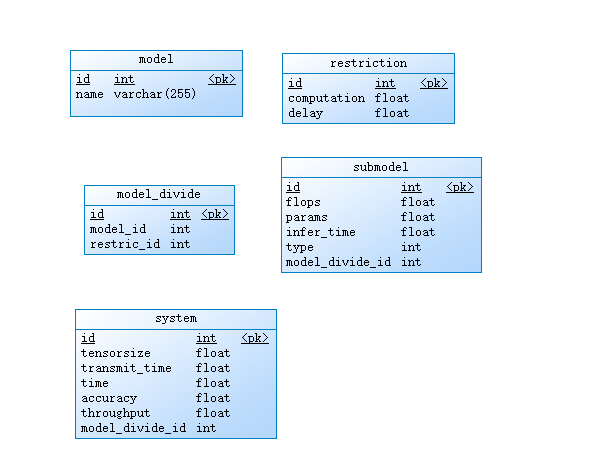
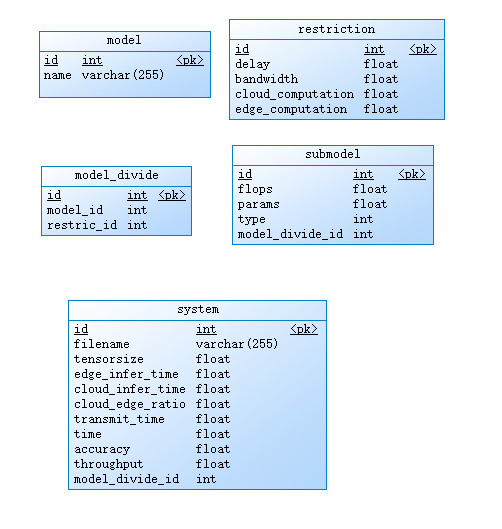
Merge branch 'main' of E:\Work\ABaidu\collaborative-inference-paddle with conflicts.

diff --git a/backend/model_transmit/server.py b/backend/model_transmit/server.py
@@ -9,6 +9,7 @@ from load_model import edge_load_model
 import numpy as np
 import channal_noise as cn
 import core
+from db_save import add_system_edge
 model_dict = []
 param_dict = []
 image_dict = []
@@ -44,11 +45,11 @@ def send_loop(type):
                   format(core.EDGE_HOST,core.EDGE_SENDTO_CLOUD,addr[0],addr[1]))
             while True:
                 for filename in glob.glob(r'../data/test/transtest/*'):
+                    # for filename in glob.glob(dirname + '/*'):
                     if filename not in image_dict:
                         image_dict.append(filename)
-                        send_tensor(conn=conn,filename=filename,model_prefix="../data/receive/model/client_infer_resnet18_cifar10")
-               
-
+                        file_name,edge_infer_time,tensorsize = send_tensor(conn,filename)
+                        add_system_edge(file_name,edge_infer_time,tensorsize)
 
 def send_file(conn, filename):
     filesize = os.path.getsize(filename)
@@ -68,8 +69,8 @@ def send_file(conn, filename):
         conn.sendall(data)
     print("\nFile {} ({} MB) send finish.".format(filename, round(filesize/1000/1000,2)))
 
-def send_tensor(conn, filename, model_prefix):
-    tensor, edge_infer_time = edge_load_model(path_prefix=model_prefix,img=filename)
+def send_tensor(conn, filename):
+    tensor, edge_infer_time = edge_load_model(path_prefix="../data/receive/model/client_infer_resnet18_cifar10",img=filename)
     print("Edge cost {}s infer {} ".format(edge_infer_time, filename))
     if tensor.dtype == "int8":
         tensor = cn.reverse_int8(tensor=tensor)
@@ -82,10 +83,8 @@ def send_tensor(conn, filename, model_prefix):
         'filename': filename,
         'filesize': tensorsize,
         'tensorshape':tensor.shape,
-        'starttime':time.time(),
-        'edgetime':edge_infer_time,
+        'starttime':time.time()
     }
-    print(time.time())
     head_info = json.dumps(dict)
     head_info_len = struct.pack('i', len(head_info))
     # 发送头部长度
@@ -96,8 +95,7 @@ def send_tensor(conn, filename, model_prefix):
     while len(view):
         nsent = conn.send(view)
         view = view[nsent:]
-    print("Filename  {} mid-tensor ({} KB) send finish.\t Shape: {}".
-        format(filename, round(tensorsize/1000,3), tensor.shape))
+    print("Filename  {} mid-tensor ({} KB) send finish.\t Shape: {}".format(filename, round(tensorsize/1000,3), tensor.shape))
     return filename,edge_infer_time,tensorsize
 if __name__ == '__main__':
     edge_server = Thread(target=send_loop, args=("cloud", ))

diff --git a/backend/model_transmit/db_save.py b/backend/model_transmit/db_save.py
@@ -1,0 +1,36 @@
+from flask import Flask
+from flask_sqlalchemy import SQLAlchemy
+
+app = Flask(__name__)
+app.config['SQLALCHEMY_DATABASE_URI'] = 'mysql://root:192223@127.0.0.1:3308/paddle'
+app.config['SQLALCHEMY_COMMIT_ON_TEARDOWN'] = True
+app.config['SQLALCHEMY_TRACK_MODIFICATIONS'] = True
+# 查询时会显示原始SQL语句
+app.config['SQLALCHEMY_ECHO'] = True
+db = SQLAlchemy(app)
+
+class System(db.Model):
+    __tablename__ = 'system'
+    id = db.Column(db.Integer, primary_key=True)
+    filename = db.Column(db.String(255)) #检测文件名
+    tensorsize = db.Column(db.Float)#传输数据量
+    edge_infer_time = db.Column(db.Float) #边推理时间
+    cloud_infer_time = db.Column(db.Float) #云推理时间
+    cloud_edge_ratio = db.Column(db.Float) #云边协同比
+    transmit_time = db.Column(db.Float)#传输时间
+    time = db.Column(db.Float)
+    accuracy = db.Column(db.Float)
+    throughput = db.Column(db.Float)
+    model_divide_id = db.Column(db.Integer)
+
+def add_system_edge(file_name,edge_infer_time,tensorsize):
+    system = System(filename=file_name,edge_infer_time=edge_infer_time,tensorsize=tensorsize)
+    db.session.add(system)
+    db.session.commit()
+    return system.id
+
+def add_system_cloud(transmit_time,cloud_infer_time, results):
+    system = System(transmit_time=transmit_time,cloud_infer_time=cloud_infer_time)
+    db.session.add(system)
+    db.session.commit()
+    return system.id

diff --git a/frontend/flask/db_model.py b/frontend/flask/db_model.py
@@ -29,7 +29,6 @@ class Submodel(db.Model):
     id = db.Column(db.Integer, primary_key=True)
     flops = db.Column(db.Float)
     params = db.Column(db.Float)
-    infer_time = db.Column(db.Float)#推理时间（云-边模型：云边协同比）
     type = db.Column(db.Integer)#模型类型 0：云-边模型  1：云模型  2：边模型
     model_divide_id = db.Column(db.Integer)
 
@@ -46,6 +45,9 @@ class System(db.Model):
     id = db.Column(db.Integer, primary_key=True)
     filename = db.Column(db.String(255)) #检测文件名
     tensorsize = db.Column(db.Float)#传输数据量
+    edge_infer_time = db.Column(db.Float) #边推理时间
+    cloud_infer_time = db.Column(db.Float) #云推理时间
+    cloud_edge_ratio = db.Column(db.Float) #云边协同比
     transmit_time = db.Column(db.Float)#传输时间
     time = db.Column(db.Float)
     accuracy = db.Column(db.Float)
